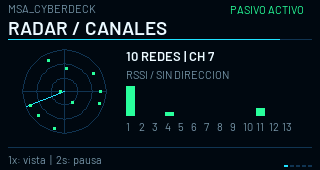
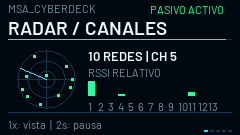
Fix physical display clipping with confirmed 240x135 landscape profile

diff --git a/preview/index.html b/preview/index.html
@@ -17,6 +17,7 @@
 <div class="actions"><button onclick="this.closest('section').querySelector('.hint').textContent='En Android se abre el selector de archivos para importar una copia.'">Importar archivo</button><button disabled>Verificar copias</button></div><div class="card"><div class="label">SIN EVIDENCIAS</div><p>Todavía no has importado archivos.</p></div><div class="hint"></div><div class="muted">Copia privada · tamaño · fecha · SHA-256</div></section>
 <section class="phone"><div class="head">Informes <span class="step">05 / 05</span></div><div class="nav"><span>Resumen</span><span>USB</span><span>Radio</span><span>Evidencias</span><b>Informes</b></div>
 <div class="card"><div class="label">INFORME MARKDOWN</div><p>Identificador, nombre, tamaño, fecha y hash de cada copia importada.</p></div><div class="actions"><button disabled>Guardar informe</button></div><div class="muted">Disponible al importar al menos una evidencia. Tú eliges dónde guardar el archivo.</div></section>
-<section class="phone"><div class="head">ESP · Radar horizontal <span class="step">CAPTURA REAL</span></div><img src="assets/sensor-radar.png" style="width:100%;image-rendering:pixelated" alt="Framebuffer real del ESP con radar y canales"><p class="muted">320 × 170 · observación pasiva · páginas con BOOT</p></section>
+<section class="phone"><div class="head">ESP · Radar horizontal <span class="step">CAPTURA REAL</span></div><img src="assets/sensor-radar.png" style="width:100%;image-rendering:pixelated" alt="Framebuffer real del ESP con radar y canales"><p class="muted">240 × 135 · observación pasiva · páginas con BOOT</p></section>
 </div><footer>Propuesta visual Android con mascota animada. El radar del ESP es una captura real; el resto es vista previa web.</footer></html>
+
 

diff --git a/firmware/src/display.c b/firmware/src/display.c
@@ -47,7 +47,7 @@ static void footer(void){
 }
 static unsigned channel_aps(unsigned c){unsigned n=0;for(unsigned i=0;i<view.count;i++)if(view.aps[i].channel==c)n++;return n;}
 static void spectrum(void){
- const int cx=64,cy=91,rad=42;
+ const int compact=height<150; const int cx=compact?46:64,cy=compact?79:91,rad=compact?29:42; const int sx=compact?88:126,base=compact?96:116,step=compact?10:13;
  for(int ring=1;ring<=3;ring++)for(int step=0;step<48;step++){
   float a=step*6.283185f/48,b=(step+1)*6.283185f/48;int r=rad*ring/3;
   line(cx+(int)(cosf(a)*r),cy+(int)(sinf(a)*r),cx+(int)(cosf(b)*r),cy+(int)(sinf(b)*r),EDGE);
@@ -60,59 +60,61 @@ static void spectrum(void){
   float a=i*2.399963f;int x=cx+(int)(cosf(a)*r*rad),y=cy+(int)(sinf(a)*r*rad);
   rect(x-1,y-1,3,3,GREEN);
  }
- char value[48];snprintf(value,sizeof(value),"%u REDES | CH %u",view.count,view.channel);text(126,48,value,&font13,WHITE);
- text(126,68,"RSSI / SIN DIRECCION",&font11,DIM);
+ char value[48];snprintf(value,sizeof(value),"%u REDES | CH %u",view.count,view.channel);text(sx,48,value,&font13,WHITE);
+ text(sx,66,compact?"RSSI RELATIVO":"RSSI / SIN DIRECCION",&font11,DIM);
  unsigned max=1;for(unsigned c=1;c<=13;c++){unsigned n=channel_aps(c);if(n>max)max=n;}
- for(unsigned c=1;c<=13;c++){int x=126+(c-1)*13;unsigned n=channel_aps(c);int h=n*30/max;
-  rect(x,116-h,9,h,c==view.channel?CYAN:GREEN);char label[4];snprintf(label,sizeof(label),"%u",c);text(x,120,label,&font11,DIM);
+ for(unsigned c=1;c<=13;c++){int x=sx+(c-1)*step;unsigned n=channel_aps(c);int h=n*(compact?15:30)/max;
+  rect(x,base-h,compact?7:9,h,c==view.channel?CYAN:GREEN);char label[4];snprintf(label,sizeof(label),"%u",c);text(x,base+4,label,&font11,DIM);
  }
 }
 static void networks(void){
  if(!view.count){centered(66,"ESCUCHANDO REDES",&font19,CYAN);centered(102,"Sin transmitir paquetes",&font11,DIM);return;}
- unsigned rows=3,start=view.selected/rows*rows;
+ unsigned rows=height<150?2:3,start=view.selected/rows*rows;
  for(unsigned row=0;row<rows&&start+row<view.count;row++){
   unsigned id=start+row;ap_t*a=&view.aps[id];int y=46+row*31;
   rect(8,y,width-16,28,CARD);if(id==view.selected)outline(8,y,width-16,28,CYAN);
   char value[48];snprintf(value,sizeof(value),"#%02u %s",id,a->ssid[0]?a->ssid:"SSID oculto");
-  clipped(14,y+1,165,value,&font13,WHITE);
+  clipped(14,y+1,width<300?115:165,value,&font13,WHITE);
   snprintf(value,sizeof(value),"CH%u %d %s",a->channel,a->rssi,sentinel_security(a->security));
-  clipped(181,y+5,width-192,value,&font11,a->security==SEC_OPEN?AMBER:GREEN);
+  clipped(width<300?132:181,y+5,width<300?98:width-192,value,&font11,a->security==SEC_OPEN?AMBER:GREEN);
  }
 }
 static void fingerprint(void){
  if(!view.count){centered(78,"SIN RED ELEGIDA",&font19,DIM);return;}
  ap_t*a=&view.aps[view.selected];char address[18],value[48];sentinel_address(a->bssid,address);
- clipped(9,47,width-18,a->ssid[0]?a->ssid:"SSID oculto",&font19,WHITE);
- text(9,72,address,&font13,CYAN);
+ clipped(9,45,width-18,a->ssid[0]?a->ssid:"SSID oculto",&font13,WHITE);
+ text(9,64,address,&font11,CYAN);
  snprintf(value,sizeof(value),"CH %u | %d dBm | %s",a->channel,a->rssi,sentinel_security(a->security));
- text(9,94,value,&font13,DIM);
- text(9,119,view.baseline_set&&!strcmp(a->ssid,view.baseline_ssid)?"SSID VIGILADO":"2s: fijar referencia propia",&font11,GREEN);
+ text(9,82,value,&font11,DIM);
+ text(9,99,view.baseline_set&&!strcmp(a->ssid,view.baseline_ssid)?"SSID VIGILADO":"2s: fijar referencia propia",&font11,GREEN);
 }
 static void alerts(void){
  char value[48];snprintf(value,sizeof(value),"%lu",(unsigned long)view.security_mismatches);
  text(10,47,"CAMBIOS SEGURIDAD",&font11,DIM);text(10,64,value,&font26,view.security_mismatches?RED:GREEN);
- text(100,73,view.security_mismatches?"REVISAR":"SIN AVISOS",&font19,view.security_mismatches?RED:GREEN);
+ text(70,71,view.security_mismatches?"REVISAR":"SIN AVISOS",&font13,view.security_mismatches?RED:GREEN);
  snprintf(value,sizeof(value),"%lu deauth | %lu disassoc",(unsigned long)view.deauth,(unsigned long)view.disassoc);
- text(10,104,value,&font13,view.deauth?AMBER:DIM);
- text(10,126,"Un aviso no demuestra un ataque",&font11,DIM);
+ text(10,89,value,&font11,view.deauth?AMBER:DIM);
+ text(10,102,"Un aviso no demuestra un ataque",&font11,DIM);
 }
 static void evidence(void){
- char value[48];snprintf(value,sizeof(value),"%lu tramas | %u redes",(unsigned long)view.frames,view.count);text(10,49,value,&font19,WHITE);
- snprintf(value,sizeof(value),"%lu beacons | %lu descartes",(unsigned long)view.beacons,(unsigned long)view.dropped);text(10,78,value,&font13,DIM);
- text(10,102,"USB 115200 | CH340 | APP ANDROID",&font11,CYAN);
- text(10,124,"Sin claves / sin inyeccion / datos en RAM",&font11,GREEN);
+ char value[48];snprintf(value,sizeof(value),"%lu tramas | %u redes",(unsigned long)view.frames,view.count);text(10,45,value,&font13,WHITE);
+ snprintf(value,sizeof(value),"%lu beacons | %lu descartes",(unsigned long)view.beacons,(unsigned long)view.dropped);text(10,64,value,&font11,DIM);
+ text(10,82,"USB 115200 | CH340 | APP ANDROID",&font11,CYAN);
+ text(10,99,"Sin claves / sin inyeccion / datos en RAM",&font11,GREEN);
 }
 static void confirm(void){
- centered(48,"FIJAR REFERENCIA PROPIA",&font13,AMBER);
- if(view.count)clipped(12,71,width-24,view.aps[view.selected].ssid,&font19,WHITE);
- centered(101,"Guarda SSID, BSSID, canal y seguridad.",&font11,DIM);
- centered(122,"No guarda contrasenas.",&font11,DIM);
+ centered(46,"FIJAR REFERENCIA PROPIA",&font13,AMBER);
+ if(view.count)clipped(12,66,width-24,view.aps[view.selected].ssid,&font13,WHITE);
+ centered(85,"Guarda SSID, BSSID, canal y seguridad.",&font11,DIM);
+ centered(100,"No guarda contrasenas.",&font11,DIM);
 }
-static void apply_geometry(void){if(applied_profile==requested_profile&&applied_invert==requested_invert)return;applied_profile=requested_profile;applied_invert=requested_invert;width=applied_profile?240:320;height=applied_profile?135:170;esp_lcd_panel_swap_xy(panel,true);esp_lcd_panel_mirror(panel,true,false);esp_lcd_panel_set_gap(panel,applied_profile?40:0,applied_profile?52:35);esp_lcd_panel_invert_color(panel,applied_invert);}static bool done(esp_lcd_panel_io_handle_t io,esp_lcd_panel_io_event_data_t*e,void*c){BaseType_t wake=pdFALSE;xSemaphoreGiveFromISR(flushed,&wake);return wake==pdTRUE;}
+static void apply_geometry(void){if(applied_profile==requested_profile&&applied_invert==requested_invert)return;applied_profile=requested_profile;applied_invert=requested_invert;width=applied_profile?240:320;height=applied_profile?135:170;esp_lcd_panel_swap_xy(panel,true);esp_lcd_panel_mirror(panel,true,false);esp_lcd_panel_set_gap(panel,applied_profile?40:0,applied_profile?53:35);esp_lcd_panel_invert_color(panel,applied_invert);}static bool done(esp_lcd_panel_io_handle_t io,esp_lcd_panel_io_event_data_t*e,void*c){BaseType_t wake=pdFALSE;xSemaphoreGiveFromISR(flushed,&wake);return wake==pdTRUE;}
 static void short_press(void){page=page==5?2:(page+1)%PAGE_COUNT;manual_until=millis()+60000;}static void double_press(void){if(page==0)sentinel_clear();else if(page==1||page==2)sentinel_next();manual_until=millis()+60000;}static void hold_press(void){manual_until=millis()+60000;if(page==0)sentinel_set_running(!view.running);else if(page==1)page=2;else if(page==2&&view.count)page=5;else if(page==3)sentinel_forget_baseline();else if(page==5){sentinel_baseline_selected();page=3;}}
 static void button_task(void*unused){bool stable=true,raw=true;uint32_t changed=0,down=0,last_up=0;bool held=false,pending=false;while(1){uint32_t now=millis();bool level=gpio_get_level(0);if(level!=raw){raw=level;changed=now;}if(level!=stable&&now-changed>=30){stable=level;if(!stable){down=now;held=false;}else{button_presses++;if(held){button_holds++;pending=false;}else if(pending&&now-last_up<330){pending=false;double_press();}else{pending=true;last_up=now;}}}if(!stable&&!held&&now-down>=1600){held=true;hold_press();}if(pending&&now-last_up>=330){pending=false;short_press();}vTaskDelay(pdMS_TO_TICKS(10));}}
 static void screen_task(void*unused){while(1){frame_ms=esp_timer_get_time()/1000;uint32_t now=millis();sentinel_snapshot(&view);if(manual(now)||page==5)last_rotation=now;else if(now-last_rotation>12000){page=(page+1)%PAGE_COUNT;last_rotation=now;}apply_geometry();rect(0,0,width,height,BG);header();if(page==0)spectrum();else if(page==1)networks();else if(page==2)fingerprint();else if(page==3)alerts();else if(page==4)evidence();else confirm();footer();while(xSemaphoreTake(flushed,0)==pdTRUE){}if(esp_lcd_panel_draw_bitmap(panel,0,0,width,height,pixels)==ESP_OK&&xSemaphoreTake(flushed,pdMS_TO_TICKS(1000))==pdTRUE)frames++;if(capture_requested){capture_requested=false;serial_blob((uint8_t*)pixels,width*height*2,width,height);xSemaphoreGive(capture_done);}vTaskDelay(pdMS_TO_TICKS(90));}}
 void screen_start(int profile,bool invert){requested_profile=profile;requested_invert=invert;flushed=xSemaphoreCreateBinary();capture_done=xSemaphoreCreateBinary();pixels=heap_caps_malloc(170*320*2,MALLOC_CAP_DMA);assert(flushed&&capture_done&&pixels);spi_bus_config_t bus={.mosi_io_num=23,.miso_io_num=-1,.sclk_io_num=18,.quadwp_io_num=-1,.quadhd_io_num=-1,.max_transfer_sz=170*320*2};ESP_ERROR_CHECK(spi_bus_initialize(SPI2_HOST,&bus,SPI_DMA_CH_AUTO));esp_lcd_panel_io_handle_t io;esp_lcd_panel_io_spi_config_t cfg={.cs_gpio_num=15,.dc_gpio_num=2,.spi_mode=0,.pclk_hz=16000000,.trans_queue_depth=1,.lcd_cmd_bits=8,.lcd_param_bits=8,.on_color_trans_done=done};ESP_ERROR_CHECK(esp_lcd_new_panel_io_spi((esp_lcd_spi_bus_handle_t)SPI2_HOST,&cfg,&io));esp_lcd_panel_dev_config_t dev={.reset_gpio_num=4,.rgb_ele_order=LCD_RGB_ELEMENT_ORDER_RGB,.bits_per_pixel=16};ESP_ERROR_CHECK(esp_lcd_new_panel_st7789(io,&dev,&panel));ESP_ERROR_CHECK(esp_lcd_panel_reset(panel));ESP_ERROR_CHECK(esp_lcd_panel_init(panel));apply_geometry();ESP_ERROR_CHECK(esp_lcd_panel_disp_on_off(panel,true));gpio_config_t led={.pin_bit_mask=1ULL<<32,.mode=GPIO_MODE_OUTPUT};ESP_ERROR_CHECK(gpio_config(&led));gpio_set_level(32,1);gpio_config_t button={.pin_bit_mask=1ULL,.mode=GPIO_MODE_INPUT,.pull_up_en=GPIO_PULLUP_ENABLE};ESP_ERROR_CHECK(gpio_config(&button));assert(xTaskCreate(screen_task,"sentinel_ui",6144,NULL,3,NULL)==pdPASS);assert(xTaskCreate(button_task,"sentinel_button",3072,NULL,3,NULL)==pdPASS);}
 void screen_page(int value){if(value>=0&&value<PAGE_COUNT){page=value;manual_until=millis()+60000;}}void screen_profile(int p,bool i){requested_profile=p;requested_invert=i;}bool screen_capture(void){while(xSemaphoreTake(capture_done,0)==pdTRUE){}capture_requested=true;return xSemaphoreTake(capture_done,pdMS_TO_TICKS(20000))==pdTRUE;}unsigned screen_frames(void){return frames;}unsigned screen_button_presses(void){return button_presses;}unsigned screen_button_holds(void){return button_holds;}int screen_button_level(void){return gpio_get_level(0);}int screen_current_page(void){return page;}int screen_current_profile(void){return applied_profile;}bool screen_current_invert(void){return applied_invert;}
+
+
 
 

diff --git a/firmware/src/main.c b/firmware/src/main.c
@@ -13,9 +13,10 @@ static SemaphoreHandle_t tx_lock;static uint8_t mac[6];
 static void send_json(cJSON*j){char*line=cJSON_PrintUnformatted(j);if(!line)return;xSemaphoreTake(tx_lock,portMAX_DELAY);uart_write_bytes(0,line,strlen(line));uart_write_bytes(0,"\n",1);xSemaphoreGive(tx_lock);free(line);}static void answer(const char*r){cJSON*j=cJSON_CreateObject();cJSON_AddStringToObject(j,"result",r);send_json(j);cJSON_Delete(j);}
 void serial_blob(const uint8_t*data,unsigned bytes,int width,int height){char h[128];int n=snprintf(h,sizeof(h),"{\"result\":\"capture_begin\",\"bytes\":%u,\"width\":%d,\"height\":%d}\n",bytes,width,height);const char*end="{\"result\":\"capture_end\"}\n";xSemaphoreTake(tx_lock,portMAX_DELAY);uart_write_bytes(0,h,n);uart_write_bytes(0,data,bytes);uart_write_bytes(0,end,strlen(end));uart_wait_tx_done(0,pdMS_TO_TICKS(15000));xSemaphoreGive(tx_lock);}
 static cJSON*ap_json(unsigned id,const ap_t*a,uint32_t now){char b[18];sentinel_address(a->bssid,b);cJSON*j=cJSON_CreateObject();cJSON_AddStringToObject(j,"record","ap");cJSON_AddNumberToObject(j,"id",id);cJSON_AddStringToObject(j,"ssid",a->ssid);cJSON_AddStringToObject(j,"bssid",b);cJSON_AddNumberToObject(j,"channel",a->channel);cJSON_AddNumberToObject(j,"rssi",a->rssi);cJSON_AddStringToObject(j,"security",sentinel_security(a->security));cJSON_AddNumberToObject(j,"reports",a->reports);cJSON_AddNumberToObject(j,"age_seconds",now-a->last);return j;}
-static void status(const sentinel_snapshot_t*s){char m[18];snprintf(m,sizeof(m),"%02x:%02x:%02x:%02x:%02x:%02x",mac[0],mac[1],mac[2],mac[3],mac[4],mac[5]);cJSON*j=cJSON_CreateObject();cJSON_AddStringToObject(j,"result","status");cJSON_AddStringToObject(j,"firmware","MSA-WiFi-Sentinel-0.2-CyberDeck");cJSON_AddStringToObject(j,"mac",m);cJSON_AddBoolToObject(j,"passive",true);cJSON_AddBoolToObject(j,"injection_enabled",false);cJSON_AddBoolToObject(j,"wifi_connected",false);cJSON_AddBoolToObject(j,"running",s->running);cJSON_AddNumberToObject(j,"channel",s->channel);cJSON_AddNumberToObject(j,"access_points",s->count);cJSON_AddNumberToObject(j,"frames",s->frames);cJSON_AddNumberToObject(j,"beacons",s->beacons);cJSON_AddNumberToObject(j,"deauth",s->deauth);cJSON_AddNumberToObject(j,"disassoc",s->disassoc);cJSON_AddNumberToObject(j,"malformed",s->malformed);cJSON_AddNumberToObject(j,"drops",s->dropped);cJSON_AddNumberToObject(j,"security_mismatches",s->security_mismatches);cJSON_AddBoolToObject(j,"baseline_set",s->baseline_set);cJSON_AddStringToObject(j,"baseline_ssid",s->baseline_set?s->baseline_ssid:"");cJSON_AddNumberToObject(j,"uptime",s->uptime);cJSON_AddNumberToObject(j,"heap",s->heap);cJSON_AddNumberToObject(j,"screen_frames",screen_frames());cJSON_AddNumberToObject(j,"page",screen_current_page());cJSON_AddNumberToObject(j,"button_presses",screen_button_presses());cJSON_AddNumberToObject(j,"button_holds",screen_button_holds());if(s->count)cJSON_AddItemToObject(j,"selected_ap",ap_json(s->selected,&s->aps[s->selected],s->uptime));send_json(j);cJSON_Delete(j);}
+static void status(const sentinel_snapshot_t*s){char m[18];snprintf(m,sizeof(m),"%02x:%02x:%02x:%02x:%02x:%02x",mac[0],mac[1],mac[2],mac[3],mac[4],mac[5]);cJSON*j=cJSON_CreateObject();cJSON_AddStringToObject(j,"result","status");cJSON_AddStringToObject(j,"firmware","MSA-WiFi-Sentinel-0.2.1-CyberDeck");cJSON_AddStringToObject(j,"mac",m);cJSON_AddBoolToObject(j,"passive",true);cJSON_AddBoolToObject(j,"injection_enabled",false);cJSON_AddBoolToObject(j,"wifi_connected",false);cJSON_AddBoolToObject(j,"running",s->running);cJSON_AddNumberToObject(j,"channel",s->channel);cJSON_AddNumberToObject(j,"access_points",s->count);cJSON_AddNumberToObject(j,"frames",s->frames);cJSON_AddNumberToObject(j,"beacons",s->beacons);cJSON_AddNumberToObject(j,"deauth",s->deauth);cJSON_AddNumberToObject(j,"disassoc",s->disassoc);cJSON_AddNumberToObject(j,"malformed",s->malformed);cJSON_AddNumberToObject(j,"drops",s->dropped);cJSON_AddNumberToObject(j,"security_mismatches",s->security_mismatches);cJSON_AddBoolToObject(j,"baseline_set",s->baseline_set);cJSON_AddStringToObject(j,"baseline_ssid",s->baseline_set?s->baseline_ssid:"");cJSON_AddNumberToObject(j,"uptime",s->uptime);cJSON_AddNumberToObject(j,"heap",s->heap);cJSON_AddNumberToObject(j,"screen_frames",screen_frames());cJSON_AddNumberToObject(j,"page",screen_current_page());cJSON_AddNumberToObject(j,"button_presses",screen_button_presses());cJSON_AddNumberToObject(j,"button_holds",screen_button_holds());if(s->count)cJSON_AddItemToObject(j,"selected_ap",ap_json(s->selected,&s->aps[s->selected],s->uptime));send_json(j);cJSON_Delete(j);}
 static void export_aps(const sentinel_snapshot_t*s){answer("aps_begin");for(unsigned i=0;i<s->count;i++){cJSON*j=ap_json(i,&s->aps[i],s->uptime);send_json(j);cJSON_Delete(j);}answer("aps_end");}
 static int number(cJSON*j,const char*n){cJSON*v=cJSON_GetObjectItem(j,n);return cJSON_IsNumber(v)&&v->valuedouble==v->valueint?v->valueint:-1;}static void save_display(int p,bool i){nvs_handle_t h;if(nvs_open_from_partition("sentinel_nvs","display",NVS_READWRITE,&h)==ESP_OK){nvs_set_u8(h,"profile",p);nvs_set_u8(h,"invert",i);nvs_commit(h);nvs_close(h);}}
 static void handle(char*line){cJSON*j=cJSON_Parse(line);cJSON*c=cJSON_GetObjectItem(j,"cmd");if(!cJSON_IsObject(j)||!cJSON_IsString(c)){cJSON_Delete(j);answer("invalid_command");return;}const char*cmd=c->valuestring;if(!strcmp(cmd,"status")||!strcmp(cmd,"aps")){sentinel_snapshot_t*s=malloc(sizeof(*s));if(!s)answer("low_memory");else{sentinel_snapshot(s);if(!strcmp(cmd,"status"))status(s);else export_aps(s);free(s);}}else if(!strcmp(cmd,"select"))answer(sentinel_select(number(j,"id"))?"selected":"invalid_ap");else if(!strcmp(cmd,"clear"))answer(sentinel_clear()?"cache_cleared":"busy");else if(!strcmp(cmd,"monitor")){cJSON*v=cJSON_GetObjectItem(j,"enabled");answer(cJSON_IsBool(v)&&sentinel_set_running(cJSON_IsTrue(v))?"monitor_changed":"invalid_monitor");}else if(!strcmp(cmd,"baseline")){cJSON*v=cJSON_GetObjectItem(j,"confirmed");answer(!cJSON_IsTrue(v)?"confirmation_required":sentinel_baseline_selected()?"baseline_saved":"no_selection");}else if(!strcmp(cmd,"forget_baseline"))answer(sentinel_forget_baseline()?"baseline_removed":"no_baseline");else if(!strcmp(cmd,"page")){int p=number(j,"index");if(p>=0&&p<PAGE_COUNT){screen_page(p);answer("page_set");}else answer("invalid_page");}else if(!strcmp(cmd,"display")){int p=number(j,"profile");cJSON*i=cJSON_GetObjectItem(j,"invert");if(p>=0&&p<2&&cJSON_IsBool(i)){screen_profile(p,cJSON_IsTrue(i));save_display(p,cJSON_IsTrue(i));answer("display_set");}else answer("invalid_display");}else if(!strcmp(cmd,"capture")){if(!screen_capture())answer("capture_failed");}else answer("unsupported_command");cJSON_Delete(j);}
-void app_main(void){tx_lock=xSemaphoreCreateMutex();uart_config_t uart={.baud_rate=115200,.data_bits=UART_DATA_8_BITS,.parity=UART_PARITY_DISABLE,.stop_bits=UART_STOP_BITS_1,.flow_ctrl=UART_HW_FLOWCTRL_DISABLE,.source_clk=UART_SCLK_DEFAULT};ESP_ERROR_CHECK(uart_param_config(0,&uart));ESP_ERROR_CHECK(uart_driver_install(0,2048,4096,0,NULL,0));esp_read_mac(mac,ESP_MAC_WIFI_STA);esp_err_t e=nvs_flash_init();if(e==ESP_ERR_NVS_NO_FREE_PAGES||e==ESP_ERR_NVS_NEW_VERSION_FOUND){ESP_ERROR_CHECK(nvs_flash_erase());e=nvs_flash_init();}ESP_ERROR_CHECK(e);e=nvs_flash_init_partition("sentinel_nvs");if(e==ESP_ERR_NVS_NO_FREE_PAGES||e==ESP_ERR_NVS_NEW_VERSION_FOUND){ESP_ERROR_CHECK(nvs_flash_erase_partition("sentinel_nvs"));e=nvs_flash_init_partition("sentinel_nvs");}ESP_ERROR_CHECK(e);int profile=0;bool invert=true;nvs_handle_t h;if(nvs_open_from_partition("sentinel_nvs","display",NVS_READONLY,&h)==ESP_OK){uint8_t v;if(nvs_get_u8(h,"profile",&v)==ESP_OK&&v<2)profile=v;if(nvs_get_u8(h,"invert",&v)==ESP_OK)invert=v!=0;nvs_close(h);}screen_start(profile,invert);sentinel_start();answer("ready");char line[512];unsigned used=0;bool discard=false;uint8_t buf[128];while(1){int n=uart_read_bytes(0,buf,sizeof(buf),pdMS_TO_TICKS(100));for(int i=0;i<n;i++){if(buf[i]=='\n'){if(!discard&&used){line[used]=0;handle(line);}used=0;discard=false;}else if(!discard){if(used<sizeof(line)-1)line[used++]=buf[i];else{discard=true;used=0;}}}}}
+void app_main(void){tx_lock=xSemaphoreCreateMutex();uart_config_t uart={.baud_rate=115200,.data_bits=UART_DATA_8_BITS,.parity=UART_PARITY_DISABLE,.stop_bits=UART_STOP_BITS_1,.flow_ctrl=UART_HW_FLOWCTRL_DISABLE,.source_clk=UART_SCLK_DEFAULT};ESP_ERROR_CHECK(uart_param_config(0,&uart));ESP_ERROR_CHECK(uart_driver_install(0,2048,4096,0,NULL,0));esp_read_mac(mac,ESP_MAC_WIFI_STA);esp_err_t e=nvs_flash_init();if(e==ESP_ERR_NVS_NO_FREE_PAGES||e==ESP_ERR_NVS_NEW_VERSION_FOUND){ESP_ERROR_CHECK(nvs_flash_erase());e=nvs_flash_init();}ESP_ERROR_CHECK(e);e=nvs_flash_init_partition("sentinel_nvs");if(e==ESP_ERR_NVS_NO_FREE_PAGES||e==ESP_ERR_NVS_NEW_VERSION_FOUND){ESP_ERROR_CHECK(nvs_flash_erase_partition("sentinel_nvs"));e=nvs_flash_init_partition("sentinel_nvs");}ESP_ERROR_CHECK(e);int profile=1;bool invert=true;nvs_handle_t h;if(nvs_open_from_partition("sentinel_nvs","display",NVS_READONLY,&h)==ESP_OK){uint8_t v;if(nvs_get_u8(h,"profile",&v)==ESP_OK&&v<2)profile=v;if(nvs_get_u8(h,"invert",&v)==ESP_OK)invert=v!=0;nvs_close(h);}screen_start(profile,invert);sentinel_start();answer("ready");char line[512];unsigned used=0;bool discard=false;uint8_t buf[128];while(1){int n=uart_read_bytes(0,buf,sizeof(buf),pdMS_TO_TICKS(100));for(int i=0;i<n;i++){if(buf[i]=='\n'){if(!discard&&used){line[used]=0;handle(line);}used=0;discard=false;}else if(!discard){if(used<sizeof(line)-1)line[used++]=buf[i];else{discard=true;used=0;}}}}}
+
 

diff --git a/tools/validate_sensor.py b/tools/validate_sensor.py
@@ -51,13 +51,13 @@ class Sensor:
             rgb.extend((((p >> 11) & 31)*255//31, ((p >> 5) & 63)*255//63, (p & 31)*255//31))
         Image.frombytes("RGB", (w,h), bytes(rgb)).save(target)
 
-out = Path(".private/sensor-validation")
+out = Path(".private/sensor-validation-compact")
 out.mkdir(parents=True, exist_ok=True)
 device = Sensor()
 initial = None
 try:
     initial = device.command("status")
-    assert initial.get("firmware") == "MSA-WiFi-Sentinel-0.2-CyberDeck", "Unexpected firmware"
+    assert initial.get("firmware") == "MSA-WiFi-Sentinel-0.2.1-CyberDeck", "Unexpected firmware"
     assert initial.get("passive") is True and initial.get("injection_enabled") is False
     time.sleep(2)
     assert device.command("aps").get("result") == "aps_begin"
@@ -85,7 +85,7 @@ try:
     result = {
         "firmware": resumed["firmware"], "networks": len(aps),
         "frames": resumed["frames"], "pause_resume": True,
-        "captures": "5 framebuffer PNGs, 320x170", "passive": resumed["passive"],
+        "captures": [list(Image.open(out / (name + ".png")).size) for name in ("radar", "networks", "fingerprint", "alerts", "evidence")], "passive": resumed["passive"],
         "injection_enabled": resumed["injection_enabled"],
         "button_presses": resumed["button_presses"],
         "android_otg_tested": False,
@@ -100,3 +100,4 @@ finally:
         except Exception:
             pass
     device.s.close()
+

diff --git a/README.md b/README.md
@@ -12,7 +12,7 @@ Cuaderno Android local para recopilar evidencias de auditorías autorizadas.
 - Conector USB-serie para WiFi Sentinel: permiso Android, identificación del firmware, estado y redes observadas.
 - Radar RSSI animado y distribución de redes por canal a partir de la última lectura USB.
 - Mascota original MSA Robotika con respiración, luces pulsantes e icono Android adaptativo.
-- Firmware ESP32 complementario con cinco pantallas horizontales de 320 × 170 y controles BOOT.
+- Firmware ESP32 complementario con cinco pantallas horizontales de 240 × 135 y controles BOOT.
 
 La app arranca sin registros ni dispositivos simulados. Solo muestra radio tras una respuesta compatible del sensor. La pestaña Radio representa una lectura, no un flujo continuo; vuelve a leer desde USB para actualizar. El ángulo del radar es decorativo: no se estima dirección ni distancia.
 
@@ -24,7 +24,7 @@ La vista previa web está en preview/index.html. La captura docs/screenshots/esp
 
 ## Sensor físico
 
-Placa ideaspark ESP32-D0WD con CH340 y pantalla ST7789 170 × 320, utilizada en horizontal (320 × 170). Pines MOSI 23, SCLK 18, CS 15, DC 2, RST 4, luz 32 y BOOT 0. Firmware basado en MSA WiFi Sentinel, identidad MSA-WiFi-Sentinel-0.2-CyberDeck. Trabaja en recepción Wi-Fi pasiva; BLE aún no se implementa.
+Placa ideaspark ESP32-D0WD con CH340 y pantalla ST7789 con perfil de 135 × 240, utilizada en horizontal (240 × 135). Pines MOSI 23, SCLK 18, CS 15, DC 2, RST 4, luz 32 y BOOT 0. Firmware basado en MSA WiFi Sentinel, identidad MSA-WiFi-Sentinel-0.2.1-CyberDeck. Trabaja en recepción Wi-Fi pasiva; BLE aún no se implementa.
 
 BOOT corto: siguiente vista. Doble pulsación en Redes/Huella: siguiente red. Mantener en Radar: pausa/reanuda. Mantener en Huella abre una confirmación; otra pulsación larga guarda la referencia elegida. No guarda contraseñas. La app no modifica NVS ni flashea.
 
@@ -37,3 +37,4 @@ Los hashes permiten comparar las copias locales; la fecha depende del reloj del 
 JDK 17, Gradle 8.9 y Android SDK 35. Tareas :app:assembleDebug y :app:compileDebugUnitTestKotlin completadas. Nueve pruebas JUnit pasan: dos de hash y siete de protocolo. El lanzador de pruebas de Gradle tiene un fallo de sockets locales en este PC; se ejecutaron directamente con JUnitCore. Consulta docs/VALIDATION-SENSOR.md.
 
 Las modificaciones de esta iteración se mantienen locales hasta completar la validación y revisión del propietario.
+

diff --git a/docs/VALIDATION-SENSOR.md b/docs/VALIDATION-SENSOR.md
@@ -12,3 +12,9 @@ Fecha: 17 octubre 2026. Sin publicación remota.
 - APK y clases de pruebas compiladas. Nueve pruebas ejecutadas con JUnitCore: todas pasan. Adaptador Android CH340/OTG pendiente de prueba en móvil.
 - Los gráficos Android y la mascota se han compilado; no se presentan como probados en ejecución Android. La vista web está identificada como previa.
 - APK actual con mascota: 11554724 bytes. SHA-256 344FCBAED1F036C83BE96C80A30790AC52405304DC0CEB2B8A64C00936A5D7F7. Copia local en dist/MSA-CyberDeck-debug.apk.
+
+## Corrección posterior de pantalla: 0.2.1
+
+La foto del propietario mostró recorte con el perfil 320 × 170. Se instaló el perfil 240 × 135, con el contenido redistribuido y desplazamientos (40, 53) para MV+MX. Referencia del controlador: https://raw.githubusercontent.com/Bodmer/TFT_eSPI/master/TFT_Drivers/ST7789_Rotation.h . El perfil se guardó en NVS.
+
+El propietario confirmó: «Sí, ahora se ve completo». Se capturaron de nuevo las cinco vistas, todas 240 × 135. La prueba física desde PC volvió a pasar pausa/reanudación y exportó 10 redes, con modo pasivo e inyección desactivada. Evidencias privadas: .private/sensor-validation-compact/. La captura compartible de Radar se actualizó; se mantiene pendiente la prueba de Android/OTG y la pulsación física de BOOT.
